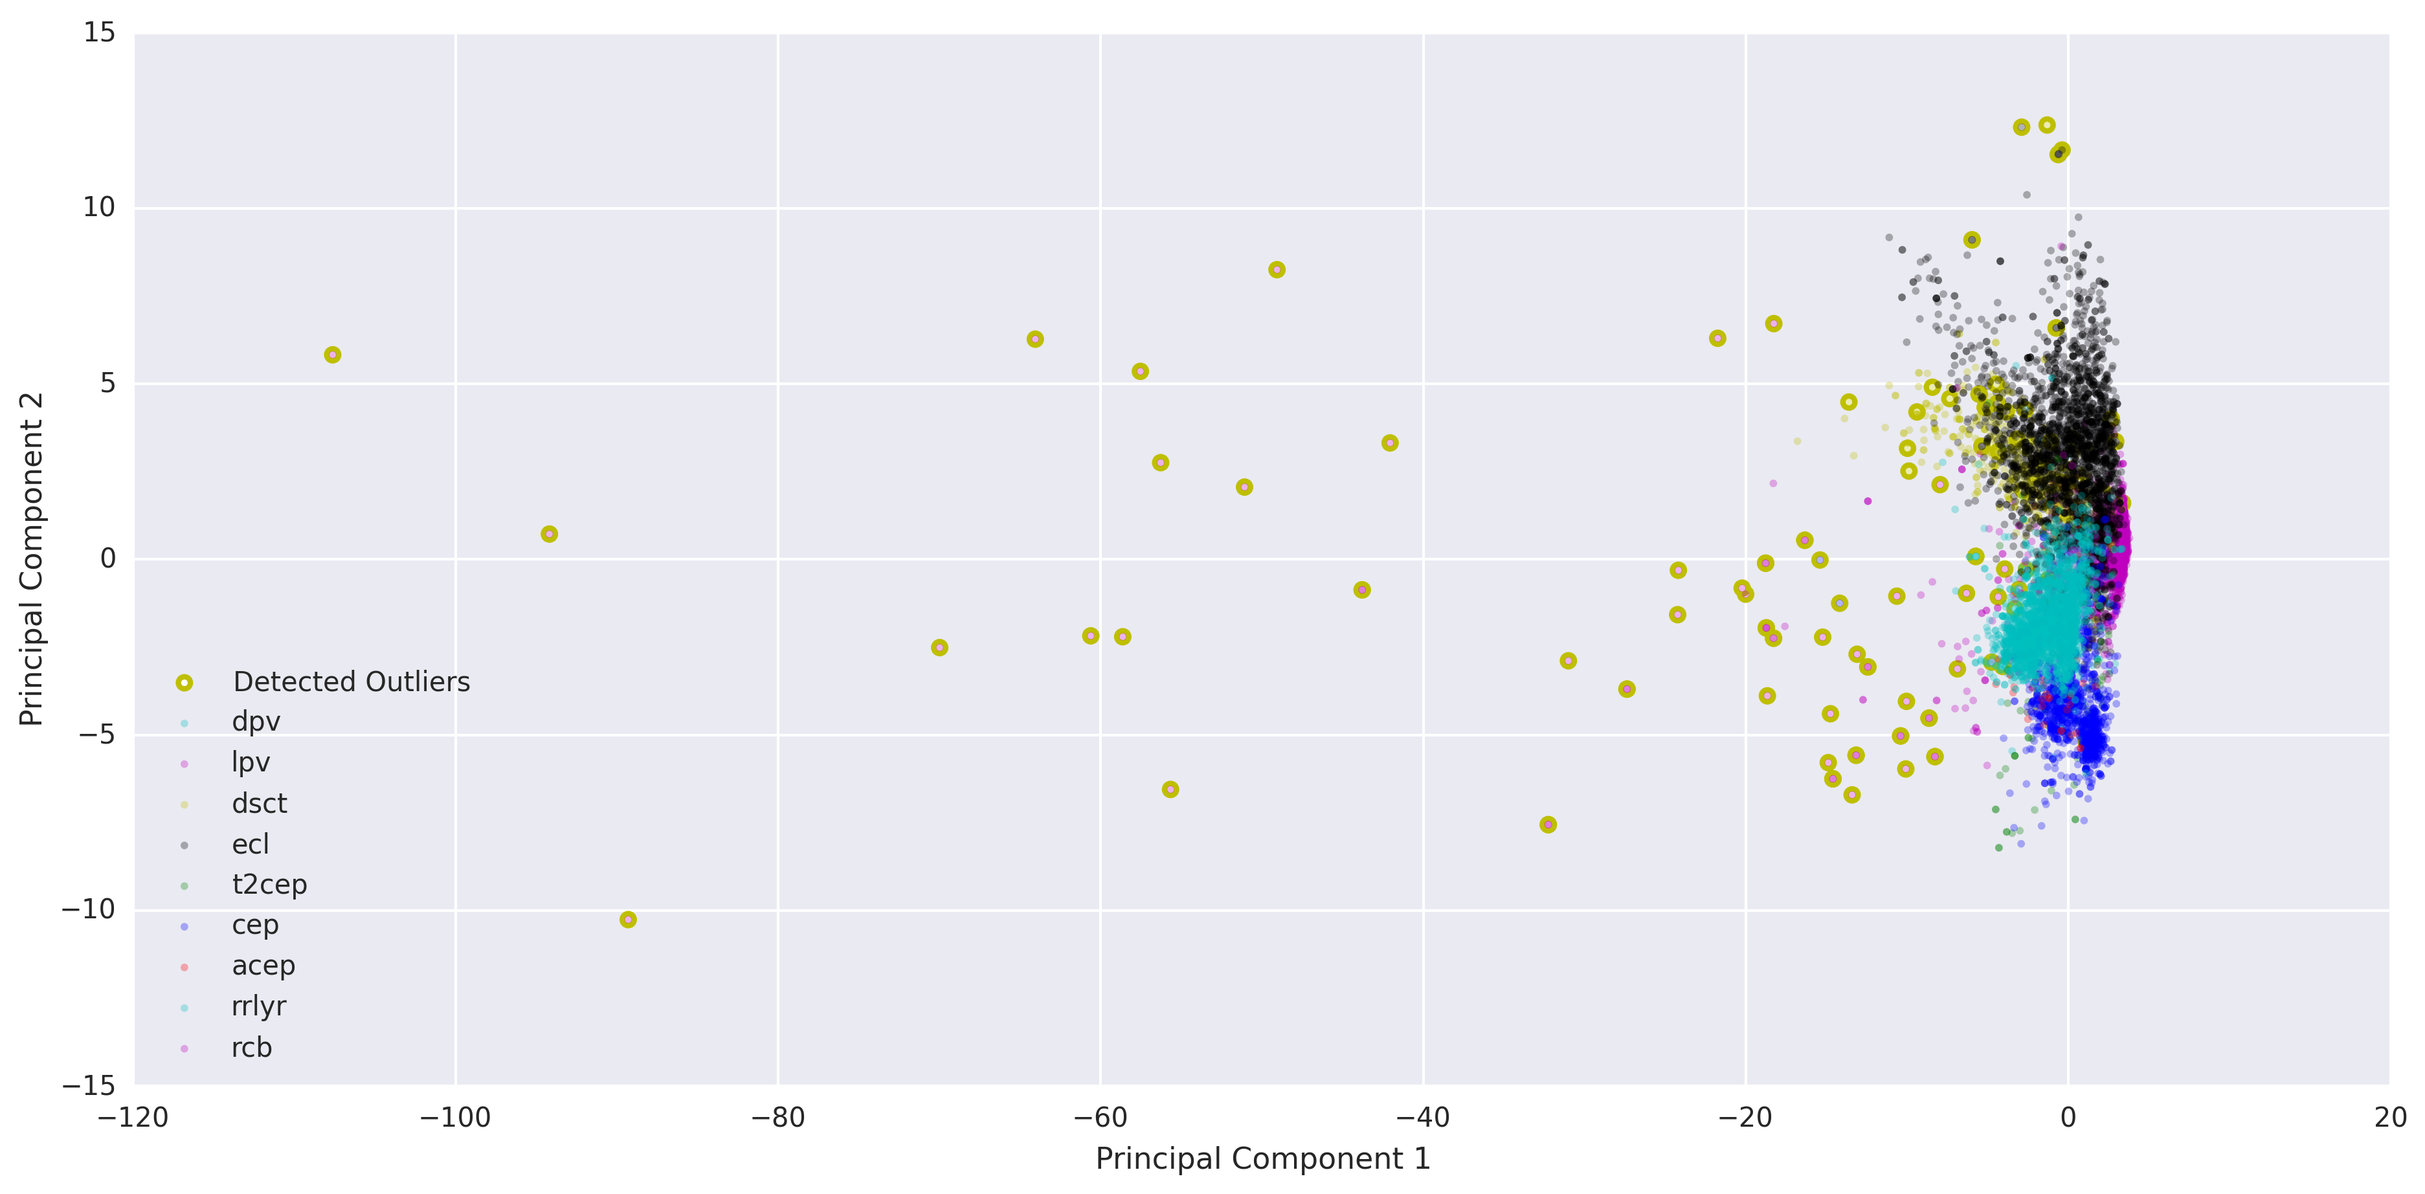
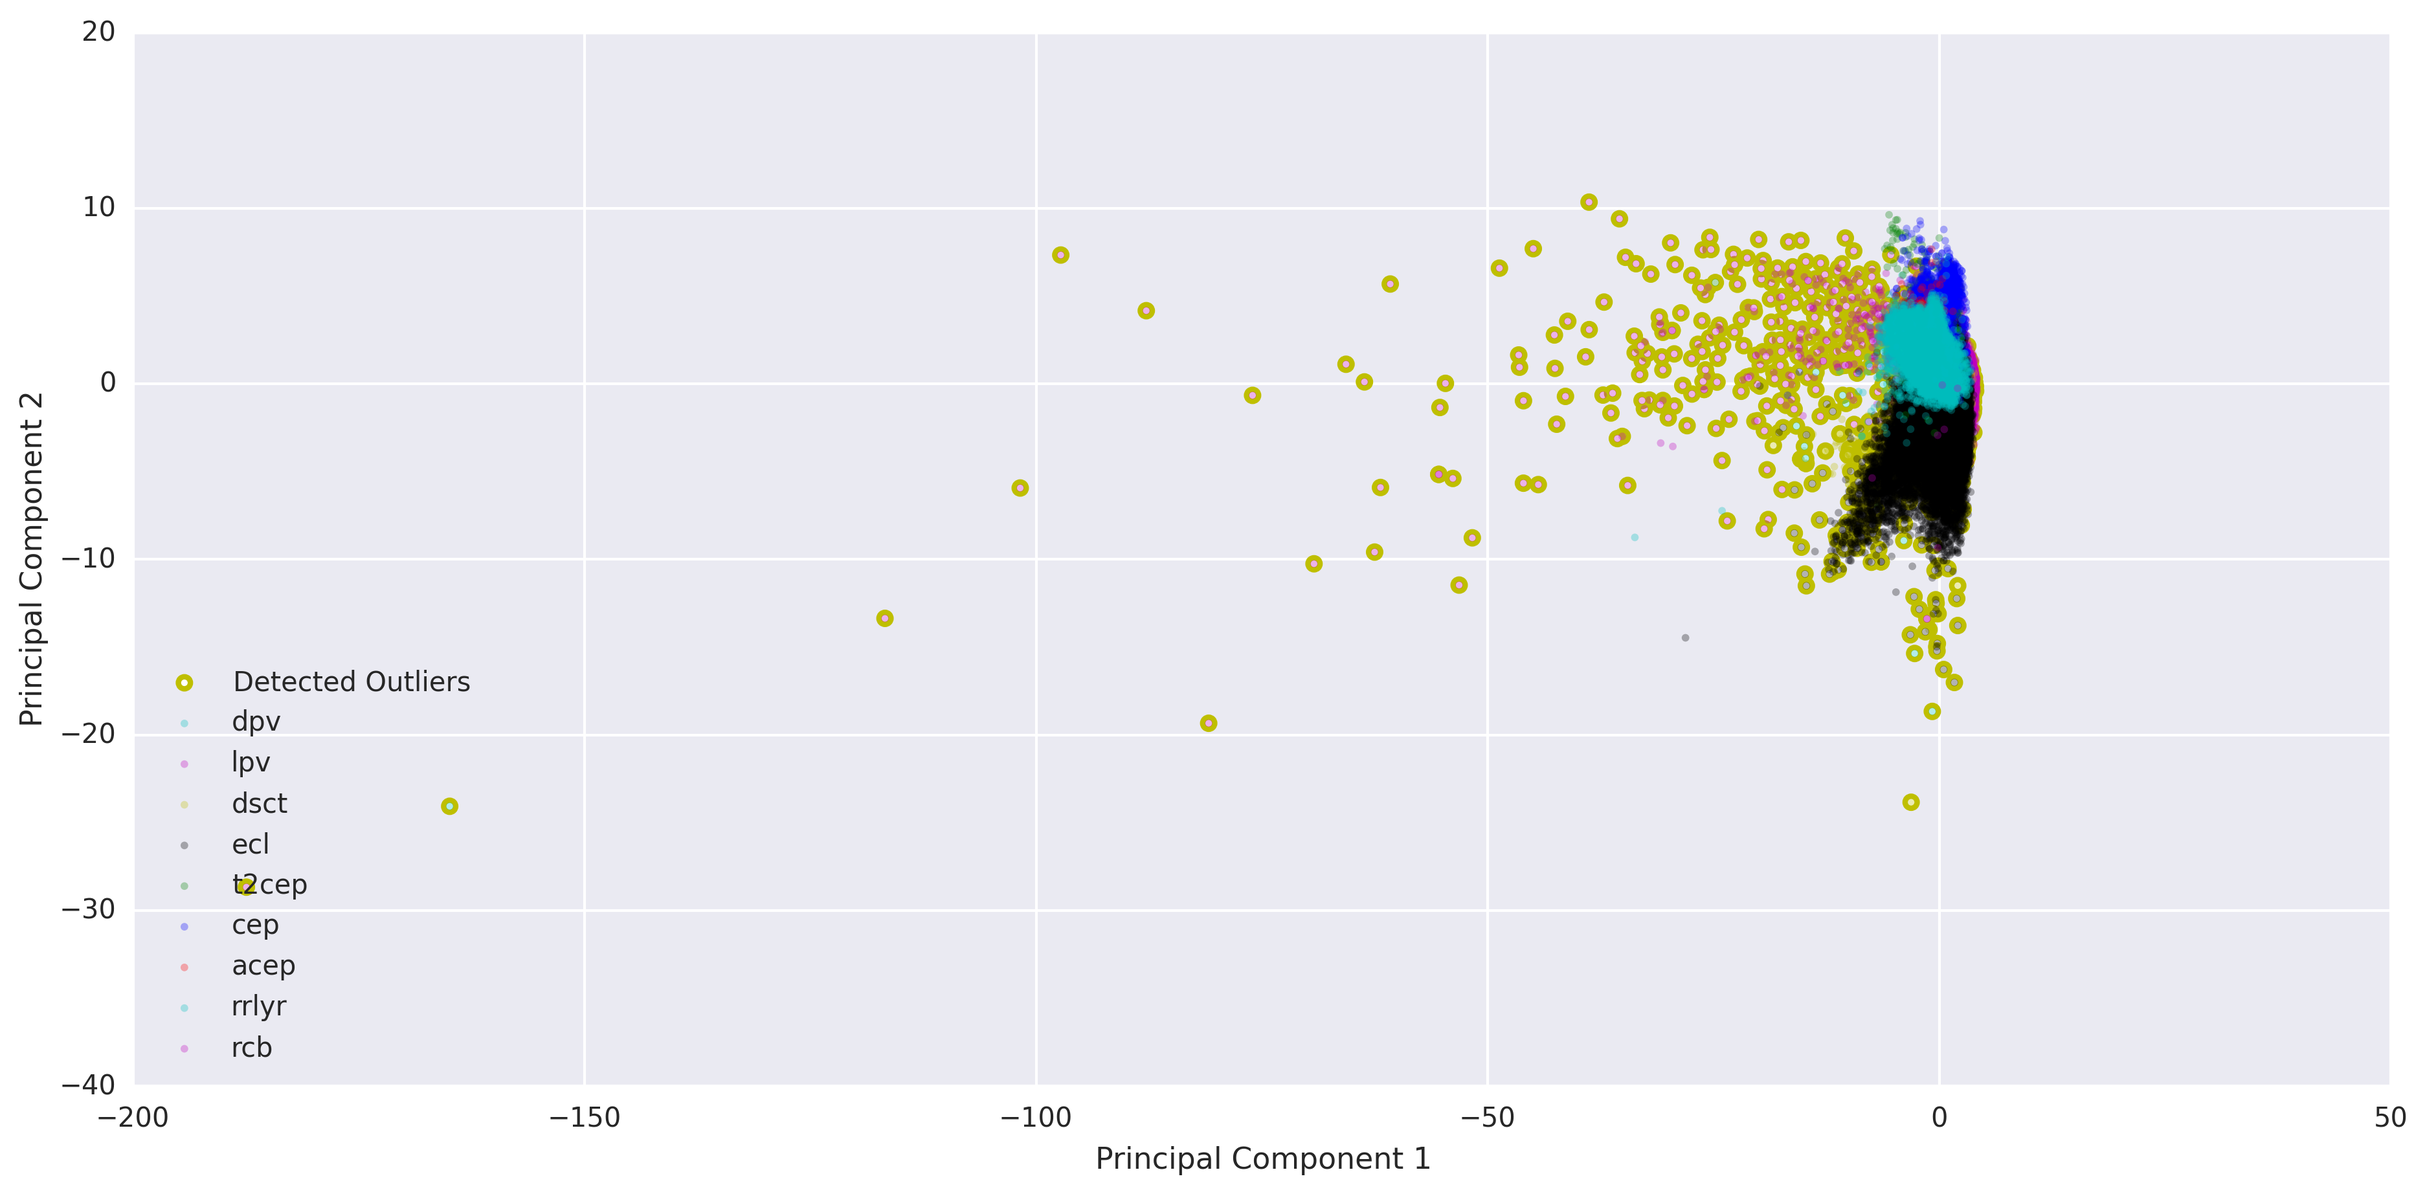
pavlos suggested changes

diff --git a/website/results.html b/website/results.html
@@ -106,6 +106,8 @@
 				<h5>Introduction to the Mixture of Experts</h5>
 				<p>With the mixture of experts approach, we assume that each outlier detection method performs best within a particular domain of the sample space. In this ensemble method, we combine the results from each method in a smart way so that the diversity of experts can make up for deficiencies in individual methods over particular domains. Therefore, the result of each expert is weighted by values generated based on the location of the point in the 57-dimensional space. The gating parameter $\eta_i$ for each expert $i$ must be trained. </p>
 
+				<p>In this project, six outlier detection methods (see Methods section) were used on either the infrared (I) or visual (V) channels of the light curves. This gave a total of <strong>twelve experts</strong> (six methods on two different channels). Here, we describe each outlier detection method and show its stand-alone performance.</p>
+
 				<img src="images/Results0.png" width="50%" style="margin-left: auto; margin-right: auto; display: block;margin-bottom:15px;"/>
 				<p class="caption"><strong>Figure R1. Mixture of Experts. </strong> The result of each expert is weighted by values generated from a gating network. Both the gating network and the experts must be trained.</p>
 
@@ -207,6 +209,7 @@
 					</table>
 				<p class="caption"><strong>Table R1. Area under the ROC curve (AUC) for various outlier detection methods.</strong> The AUC is a common single-number metric to compare between ROC curves (such as those seen in the Methods section). Bolded AUC values are from the individual outlier detection methods that did the best under each outlier detection task (either detecting artificial outliers or the rcb class as outliers). </p>
 
+				<p>To visualize the 57-dimension data points more easily, principal component analysis (PCA) was done on the extracted time series features for each light curve. The first two principal components were used to make a 2D plot (Figure D1). PCA was used because visualizing a 57-dimensional space on a 2D image is very difficult. One could imagine plotting the data points on axes of each pair of features. However, this would create too many (57 choose 2) plots and therefore would be hard to easily grasp the shape of the data point cloud. PCA is a great way to draw a plane through the 57-dimensional data point cloud in such a way that the plane captures the most variation in the data. Projecting the data points on this place thus may allow visualization of outlier points more easily. We note that PCA was solely used as a visualization tool, and was not used for any of the mathematical mechanics in building the outlier detection models.</p>
 
 				<a href='images/Results2.png' data-lightbox='Results2'>
 				<img src="images/Results2.png" width="70%" style="margin-left: auto; margin-right: auto; display: block;margin-bottom:15px;"/></a>
@@ -214,20 +217,25 @@
 
 				<p>As can be seen in Figure R3, the mixture of experts model is able to identify almost all of the objects in class rcb that appear to be far away from the other points on the PCA plane. With an arbitrary threshold (1.1) the false positive rate is 1% (231 non-rcb objects) and the true postive rate is 68% (18/22 rcb objects). Of course, depending on one's tolerance for type 1 or type 2 error, the threshold can be adjusted. </p>
 
+
+
 				<h5>Application to Larger Data Set</h5>
-				<p>We used the mixture of experts model trained with the 1913 outliers to detect outliers in the larger data set of 10000 light curves: 2693 from lpv, 648 from dsct, 2673 from ecl, 93 from t2cep, 1109 from cep, 38 from acep, 2637 from rrlyr, 22 from rcb, and 87 from dpv. This set includes the training set. Note that the number of rcb class outliers is the same as the training set, so this exercise will show the performance of the mixture model in identifying the rcb class while dealing with more non-outlier data. There is also an additional dpv class. </p>
+				<p>We used the mixture of experts model trained with the 1913 outliers to detect outliers in the larger data set of 49006 objects (a total of 98012 light curves accounting for I and V channel): 136 from dpv, 14883 from lpv, 1252 from dsct, 15377 from ecl, 202 from t2cep, 2139 from cep, 82 from acep, 14913 from rrlyr, 22 from rcb. This set includes the training set. Note that the number of rcb class outliers is the same as the training set, so this exercise will show the performance of the mixture model in identifying the rcb class while dealing with more data. There is also an additional dpv class. The ROC curve displaying the results are shown in figure R4.</p>
+
+				<p>To test the robustness of the model, $\eta$ was trained with three different small samples. $\eta 1$ is was trained on the set of 1913 objects described above. $\eta 2$ and $\eta 3$ were trained on 2000 randomly selected objects. Since the rcb class outliers were used to help train the model, we always include the 22 rcb objects, but the other 1978 objeccts were randomly chosen from our larger data set of 49006 objects. That is, each object in the 49006 data set had equal probability of being selected and we only selected 1978 of them. These are just bootstraped data points, so we did not have to define any range in sample space. For $\eta 2$, the 2000 points used to train the mixture of expert parameter $\eta$ were: 6 from dpv, 576 from lpv, 65 from dsct, 656 from ecl, 6 from t2cep, 77 from cep, 3 from acep, 589 from rrlyr, 22 from rcb. For $\eta 3$, the 2000 points used to train the mixture of expert parameter $\eta$ were: 5 from dpv, 605 from lpv, 46 from dsct, 610 from ecl, 10 from t2cep, 85 from cep, 3 from acep, 614 from rrlyr, 22 from rcb. Note that the distribution of points from each class are different between the three mixture of experts training sets. </p>
 
 				<a href='images/Results3.png' data-lightbox='Results3'>
 				<img src="images/Results3.png" width="70%" style="margin-left: auto; margin-right: auto; display: block;margin-bottom:15px;"/></a>
-				<p class="caption"><strong>Figure R4. ROC for the mixture of experts outlier detection method applied to larger dataset of 10000 objects. </strong> The mixture of experts model does a bit better in this scenario than in the training data scenario in identifying the rcb class outliers.</p>
+				<p class="caption"><strong>Figure R4. ROC for the mixture of experts outlier detection method applied to larger dataset of 49006 objects. </strong> The mixture of experts model trained on the smaller data set does well in this scenario in identifying the rcb class as outliers. The three lines show the results from three mixture of experts models (3 different $\eta$ parameters) that were trained on different small sample sizes. </p>
 
-				<p>As Figure R4 shows, the mixture of experts model is readily applicable to larger data sets. It does fairly well in the detection of rcb class outliers (AUC = 0.90), performing as well as it did on the smaller training data set (AUC = 0.89).</p>
+				<p>As Figure R4 shows, the mixture of experts model is readily applicable to larger data sets. It does fairly well in the detection of rcb class outliers. It is robust to different small training sets, even with a different distributionof data points. </p>
 
 				<a href='images/Results4.png' data-lightbox='Results4'>
 				<img src="images/Results4.png" width="70%" style="margin-left: auto; margin-right: auto; display: block;margin-bottom:15px;"/></a>
-				<p class="caption"><strong>Figure R5. Large data set with detected outliers plotted on the PCA plane (I-channel).</strong> Detected outliers are outlied in yellow. The threshold 1.4 was chosen by eye such that the obvious outliers were identified, yet not many points in the main cluster were identified as outlier. The false positive rate at this threshold is 1% (1711 non-rcb class objects) and the true postive rate is 68.5% (19/22 rcb class objects).</p>
+				<p class="caption"><strong>Figure R5. Large data set with detected outliers plotted on the PCA plane (I-channel).</strong> Detected outliers are outlied in yellow. The threshold 1.4 was chosen by eye such that the obvious outliers were identified, yet not many points in the main cluster were identified as outlier. The false positive rate at this threshold is 1% (505 non-rcb class objects) and the true postive rate is 36.4% (8/22 rcb class objects).</p>
 
-				<p>As can be seen in Figure R5, the mixture of experts model is able to identify almost all of the objects in class rcb that appear to be far away from the other points on the PCA plane. </p>
+				<p>As can be seen in Figure R5, the mixture of experts model is able to identify almost all of the objects that appear to be far away from the other points on the PCA plane, even though most of them are not in the class rcb. This suggests that our current ROC curve (which measures effectiveness in identifying rcb class outliers) may not be the best metric to evalate these models. </p>
+
 
 				<h5>Next Steps</h5>
 				<p>Future work should focus on the addition of more outlier detection "experts" to the model. In addition, the optimization of the gating parmeter $\eta$ in mixture of experts model may be optimized simultaneously with individual expert parameters using expectation maximization and stochastic gradient descent. In addition, we look to use our easily extensible code to extend our work to other domains - in particular, fraud detection in financial transaction networks, which we hope to look at next semester.</p>

diff --git a/website/methods.html b/website/methods.html
@@ -109,7 +109,13 @@
 				<p>We measure performance using two metrics. First, an artificial set of outliers were created (see below) and the method's ability to score them as outliers is measured. In the second method, we choose a class ('rcb') that is designated as outlier (based on initial data exploration). We then evaulate how well the method can score objects in this class as outliers. </p>
 
 				<h5>Creation of Artificial Outliers</h5>
-				<p>20 artificial outliers were created by first randomly sampling 20 light curves from the data set. Within each feature, the 20 values were randomly shuffled among the data points. Then, $n$ standard deviations (of each feature) were randomly added to each data value, where $n$ is selected from a standard normal distribution centered at 4. Figure P1 shows the outliers plotted on the PCA plane.</p>
+				<p>20 artificial outliers were created by first randomly choosing (with replacement) 20 light curves from the data set. That is, from our existing set of 1913 light curves, we bootstrap select 20. Thus, we did not have to specify any range from which to sample. </p>
+
+				<p>Within each feature, the 20 values were randomly shuffled among the data points. That is, imagine a 1913x57 matrix with our data, where each row is a light curve and each of the 57 columns represents the features. We iterate over the 57 columns and randomly shuffle the values within each column. </p>
+
+				<p>Then, $n$ standard deviations (of each feature) were randomly added to each data value, where $n$ is selected from a standard normal distribution centered at 4. Again with our matrix analogy, we calculate the standard deviation of each column's values. Then, to each value in the column we add $n$ times that standard deviation to it. </p>
+
+				<p>To visualize the 57-dimension data points more easily, principal component analysis (PCA) was done on the extracted time series features for each light curve. The first two principal components were used to make a 2D plot (Figure D1). PCA was used because visualizing a 57-dimensional space on a 2D image is very difficult. One could imagine plotting the data points on axes of each pair of features. However, this would create too many (57 choose 2) plots and therefore would be hard to easily grasp the shape of the data point cloud. PCA is a great way to draw a plane through the 57-dimensional data point cloud in such a way that the plane captures the most variation in the data. Projecting the data points on this place thus may allow visualization of outlier points more easily. We note that PCA was solely used as a visualization tool, and was not used for any of the mathematical mechanics in building the outlier detection models. Figure P1 shows the outliers plotted on the PCA plane. </p>
 				<a href='images/Methods1.png' data-lightbox='Methods1'>
 					<img src="images/Methods1.png" width="100%"/>
 				</a>
@@ -156,7 +162,7 @@
 
 				<h5>Support Vector Machine &amp; Joint Probability (SVM+JP)</h5>
 				<p>This is a supervised learning method modified from <a href="http://iopscience.iop.org/0004-637X/793/1/23">Nun et al. 2014</a> and documented by supervised-learning standard algorithms. Briefly, a classifier is trained on data with known class labels. For each point, a membership probability vector is produced that lists the probability of its belonging to each class. Then a joint probability for the particular combination of membership probabilities is calculated.  Nun et al. used a random forest classifier and a Bayesian Network to produce the joint probabilities. Outliers are then identified as the points that have low joint probabilities because class membership probability vectors similar to thiers were not been seen often enough in the training data. </p>
-				<p>Here, we modify the approach by using SVM (rbf kernel) for the classifier and a frequency table to determine the joint probabilities. In addition, an artificial class sampled uniformly from the sample space was used to train the classifier. The outlier class combined used in conjuction with the rbf kernel SVM allowed the method to create bounded regions for each class even with a very small number randomly sampled background. These modifications were found to improve outlier detection (especially excluded-group outliers).  We can see a small-scale example on the classic "Iris" data set, below. </p>
+				<p>Here, we modify the approach by using SVM (rbf kernel) for the classifier and a frequency table to determine the joint probabilities. In addition, an artificial class sampled uniformly from the sample space (defined as space between the minimum and the maximum of our data set in each feature) was used to train the classifier. The outlier class combined used in conjuction with the rbf kernel SVM allowed the method to create bounded regions for each class even with a very small number randomly sampled background. These modifications were found to improve outlier detection (especially excluded-group outliers).  We can see a small-scale example on the classic "Iris" data set, below. </p>
 				<p>SVM was used instead of random forest because it can draws neater and tighter decision boundaries around clusters of points. This is necessary because outliers can be positioned far away from the initial training data points, yet be classified under a particular class solely due to its position radial to a class decision space. We found that the SVM classifier, with decision boundaries that encompass well the clusters of points for each particular class, improves detection of these kinds of outliers. </p>
 
 				<a href='images/svmiris.jpg' data-lightbox='svmiris'>

diff --git a/website/data.html b/website/data.html
@@ -292,7 +292,7 @@
 				 <p>To train the mixture of experts model, a sample of 1913 light curves were used: 296 from lpv, 293 from dsct, 297 from ecl, 202 from t2cep, 294 from cep, 82 from acep, 291 from rrlyr, and 22 from rcb. Light curves were used only if there was data from both the I and the V channels. </p>
 
 				<h5>Data Visualization</h5>
-				<p>To visualize the 57-dimension data points more easily, principal component analysis (PCA) was done on the extracted time series features for each light curve. The first two principal components were used to make a 2D plot (Figure D1). </p>
+				<p>To visualize the 57-dimension data points more easily, principal component analysis (PCA) was done on the extracted time series features for each light curve. The first two principal components were used to make a 2D plot (Figure D1). PCA was used because visualizing a 57-dimensional space on a 2D image is very difficult. One could imagine plotting the data points on axes of each pair of features. However, this would create too many (57 choose 2) plots and therefore would be hard to easily grasp the shape of the data point cloud. PCA is a great way to draw a plane through the 57-dimensional data point cloud in such a way that the plane captures the most variation in the data. Projecting the data points on this place thus may allow visualization of outlier points more easily. We note that PCA was solely used as a visualization tool, and was not used for any of the mathematical mechanics in building the outlier detection models. </p>
 
 				<a href='images/Data1.png' data-lightbox='Data1'>
 				<img src="images/Data1.png" width="100%" style="margin-left: auto; margin-right: auto; display: block;margin-bottom:15px;"/>
